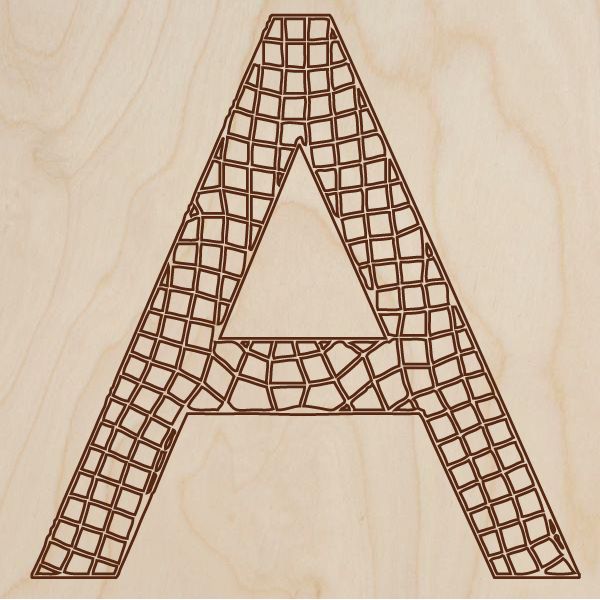
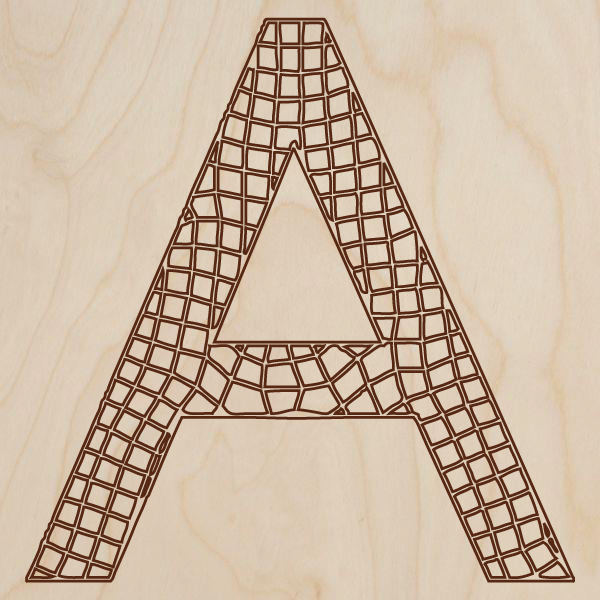
things are looking good. next up: debug alpha mappings and generate 2 planes for explode view

Changed region(s): [[0.0, 0.0, 1.0, 1.0]]

diff --git a/webpage/script/render.js b/webpage/script/render.js
@@ -26,8 +26,8 @@ function initCamera() {
         /*drawingCanvas.dataURL()*/
         "../img/Birch-Plywood.jpg");
 
-    var normal = loader.load("../img/Birch-Plywood-A.png_displacement.png");
-    var displacement = loader.load("../img/Birch-Plywood-A.png_normal.png");
+    var normal = loader.load("../img/a_cut.png_normal.png");
+    var displacement = loader.load("../img/a_cut.png_displacement.png");
     var alpha_odd = loader.load("../img/odd_components.png");
     var alpha_even = loader.load("../img/even_components.png");
         
@@ -37,11 +37,11 @@ function initCamera() {
         displacementMap: displacement,
         displacementScale: 10,
         displacementBias: -0.5,
-        //alphaMap: alpha_even,
+        alphaMap: alpha_even,
         specular: 15
      } );
 
-    plane = new THREE.Mesh(new THREE.BoxGeometry(viewHeight/2, viewWidth/2, 1, 100, 100, 1), material);
+    plane = new THREE.Mesh(new THREE.BoxGeometry(viewWidth*.65, viewHeight, 1, 500, 500, 1), material);
     plane.material.needsUpdate = true; // update material
     plane.receiveShadow = true;
     
